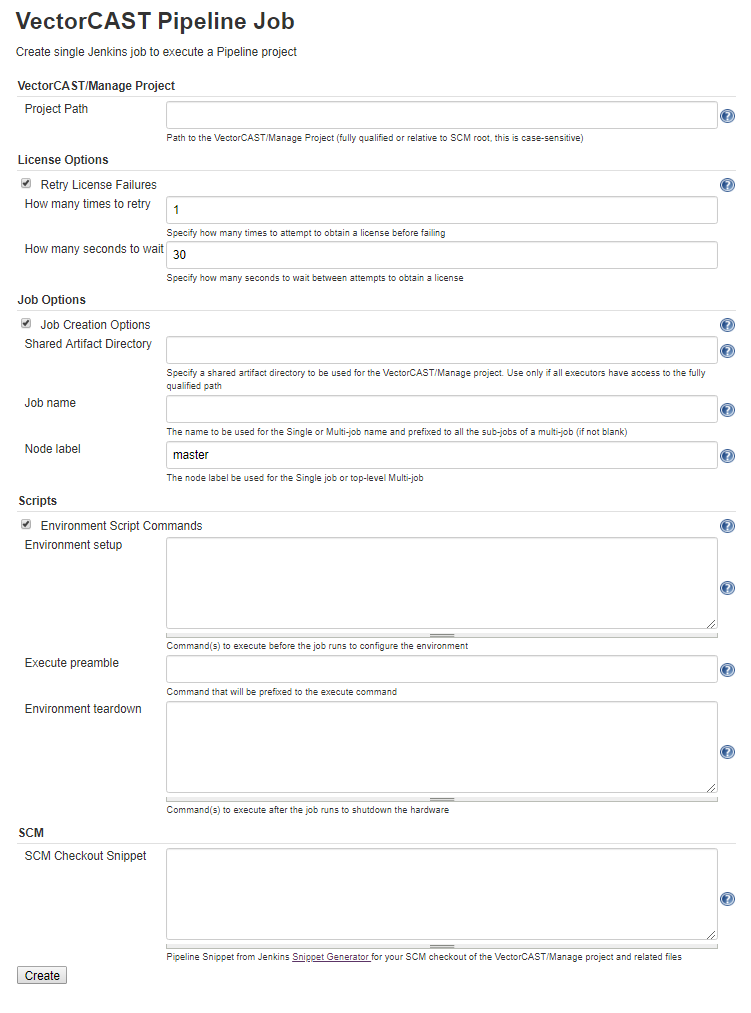
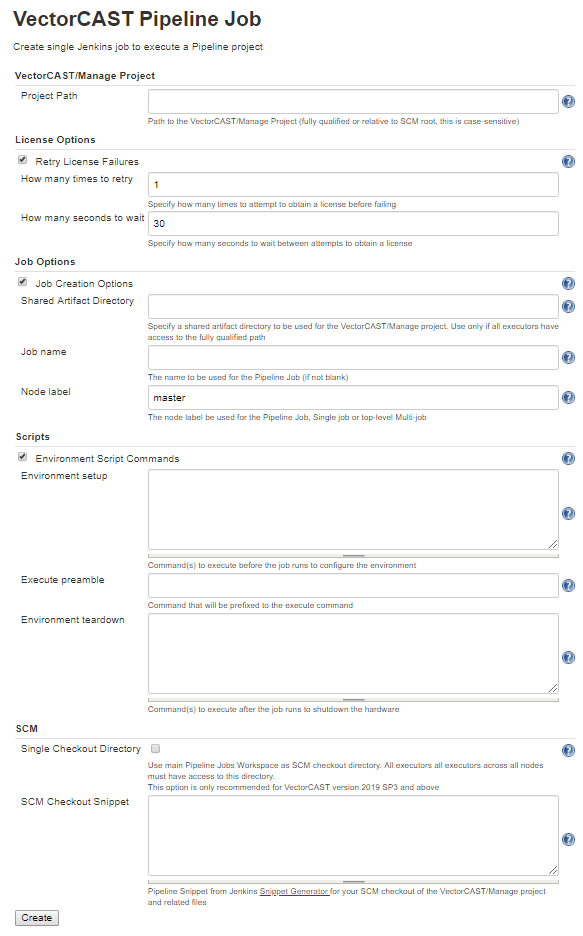
Updated documentation for single checkout option

diff --git a/README.md b/README.md
@@ -56,6 +56,10 @@ There are 2 options for running tests
         results from all these individual machines/nodes
     -   In this case, the VectorCAST/Manage project should be specified
         as relative to the root of the checkout
+    - There is now an option for the user can choose to use the main Pipeline Job's Workspace as 
+        a dedicated single checkout directory.  This checkout directory must be available
+        to all executors across all nodes either by having all executors running on the same
+        computer or have the main Pipeline Job's Workspace on a shared network drive.
 - Use an existing drive/directory for VectorCAST/Manage project
     -   In this case, the VectorCAST/Manage project should be specified
         as an absolute path that is available on all machines/nodes
